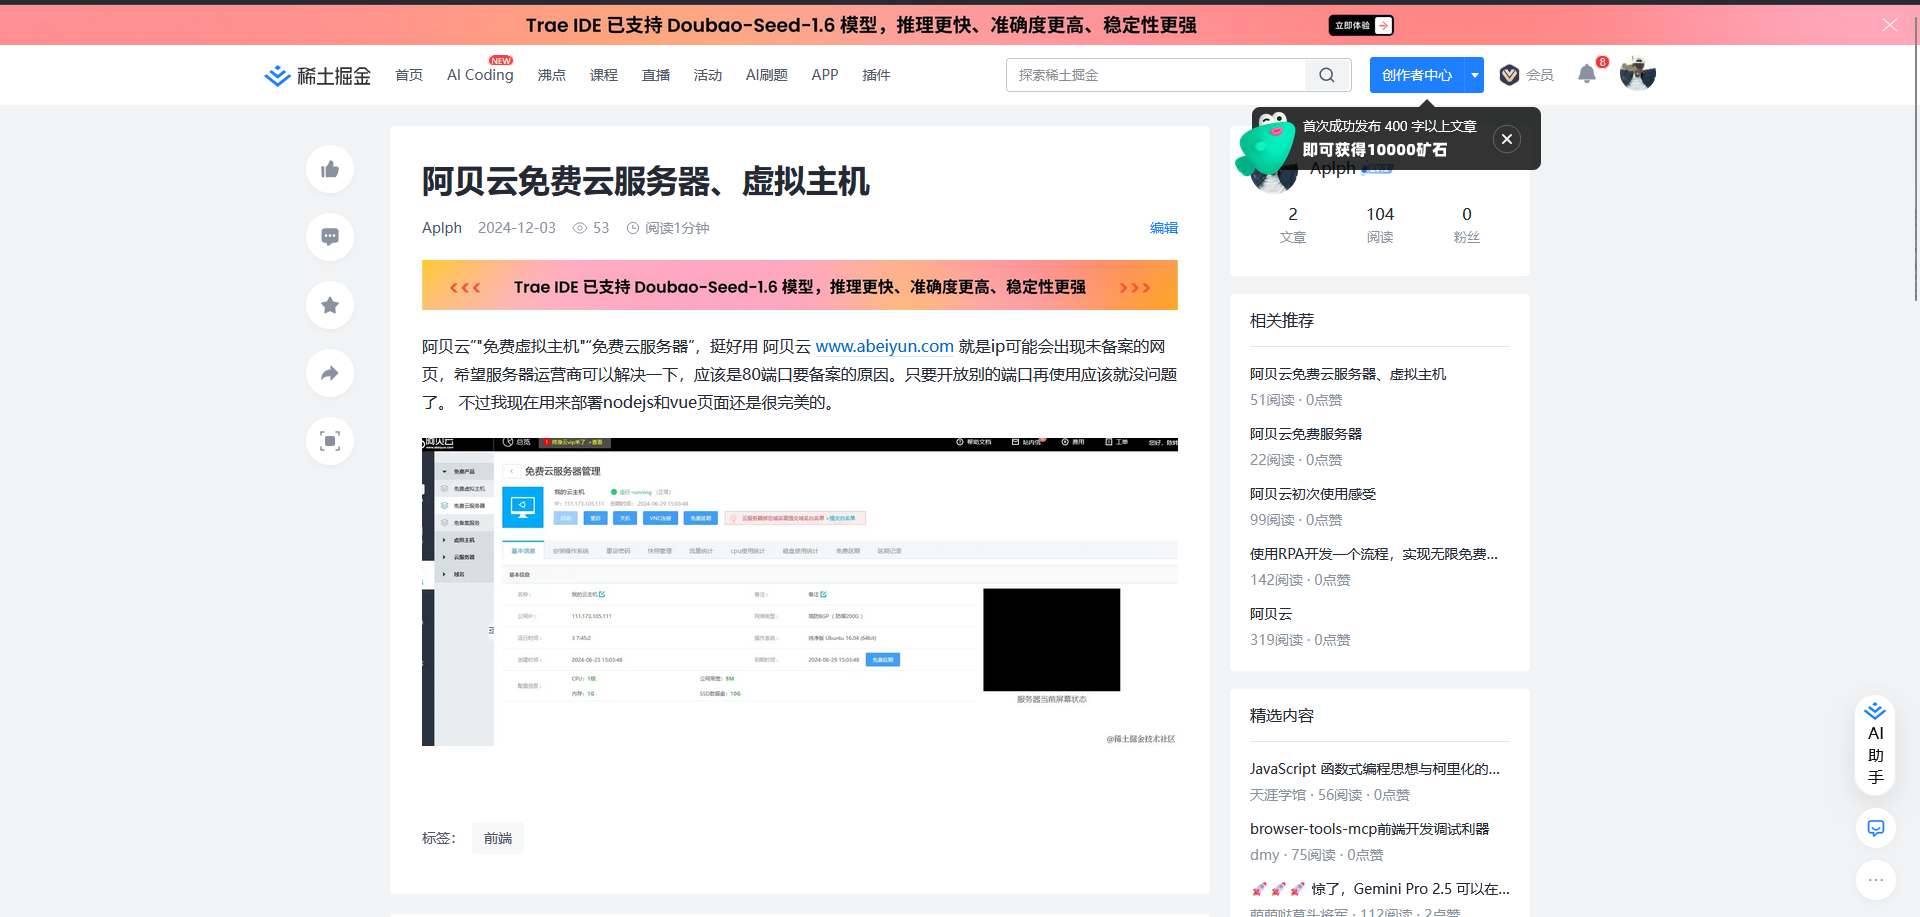
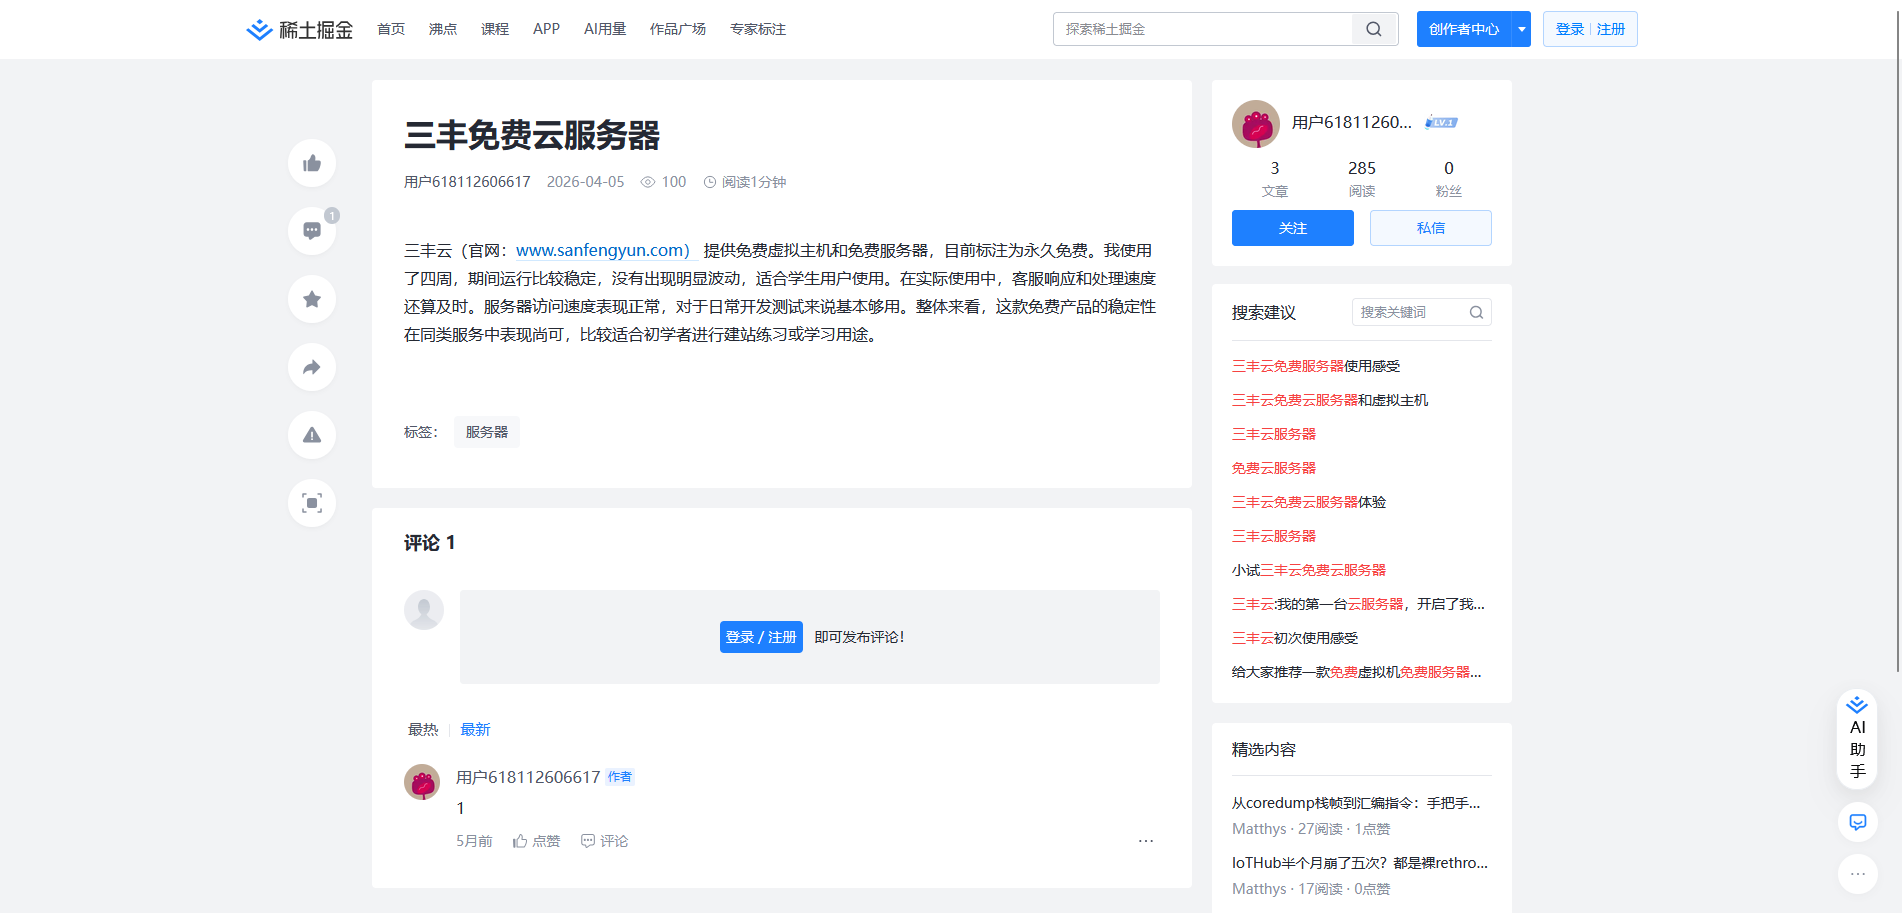
fix(location):默认更改

diff --git a/postpone/src/main/java/com/ff/postpone/task/Postpone.java b/postpone/src/main/java/com/ff/postpone/task/Postpone.java
@@ -31,7 +31,7 @@ public class Postpone extends QuartzJobBean {
      * 延期固定网址（掘金软文地址），提交时作为 url 文本字段传入阿贝云 renew.php。
      * 代码层不对该 url 发 GET 校验，固定值即可。
      */
-    private static final String FIXED_BLOG_URL = "https://juejin.cn/post/7444006501285036058";
+    private static final String FIXED_BLOG_URL = "https://juejin.cn/post/7353561211512078345?searchId=20260920150657DBCC39899B0D5D0B8876";
 
     @Override
     protected void executeInternal(JobExecutionContext context) throws JobExecutionException {
